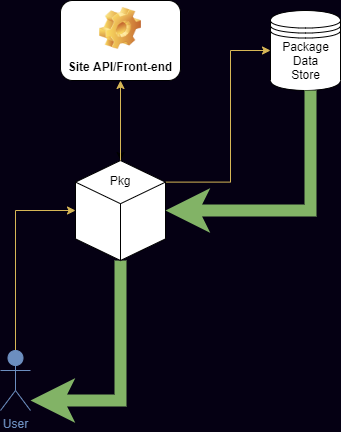
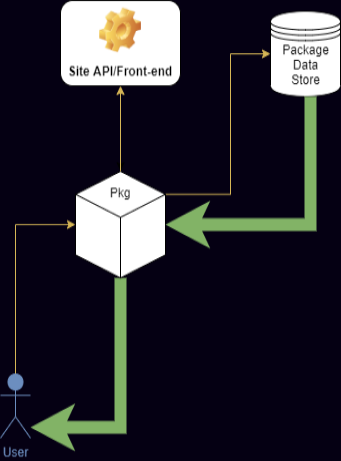
drawio

diff --git a/The_SportsDataverse_Initiative_slides.html b/The_SportsDataverse_Initiative_slides.html
@@ -182,7 +182,7 @@ I had a thought I am sure many of the long-standing members of the sports analyt
 --
 
 * A community of developers committed to developing and maintaining open-source sports data packages and pipelines as on-going public utilities   
-   👥 + 💬 + 👩💻 + 📦
+   👥 + 💬 + 👨💻 + 📦
 
 --
 
@@ -292,12 +292,12 @@ wnba_pbp_df = sdv.wnba.load_wnba_pbp(seasons=2021)
 
 --
 
-.pull-left[
-&lt;img src="https://raw.githubusercontent.com/saiemgilani/The_SportsDataverse_Initiative/main/figures/api-datastore.png" width="47%" /&gt;
+.split-left[
+&lt;img src="https://raw.githubusercontent.com/saiemgilani/The_SportsDataverse_Initiative/main/figures/api-scraper.png" width="47%" /&gt;
 &lt;br&gt;
 ]
-.pull-right[
-&lt;img src="https://raw.githubusercontent.com/saiemgilani/The_SportsDataverse_Initiative/main/figures/api-scraper.png" width="47%" /&gt;
+.split-right[
+&lt;img src="https://raw.githubusercontent.com/saiemgilani/The_SportsDataverse_Initiative/main/figures/api-datastore.png" width="47%" /&gt;
 &lt;br&gt;
 ]
 

diff --git a/sdv-xaringan-themer.css b/sdv-xaringan-themer.css
@@ -181,6 +181,14 @@ blockquote {
   border-left: solid 5px #37478580;
   padding-left: 1em;
 }
+.split-left {
+  float: center;
+  width: 50%;
+}
+.split-right {
+  float: center;
+  width: 50%;
+}
 .remark-slide table {
   margin: auto;
   border-top: 1px solid #666;
